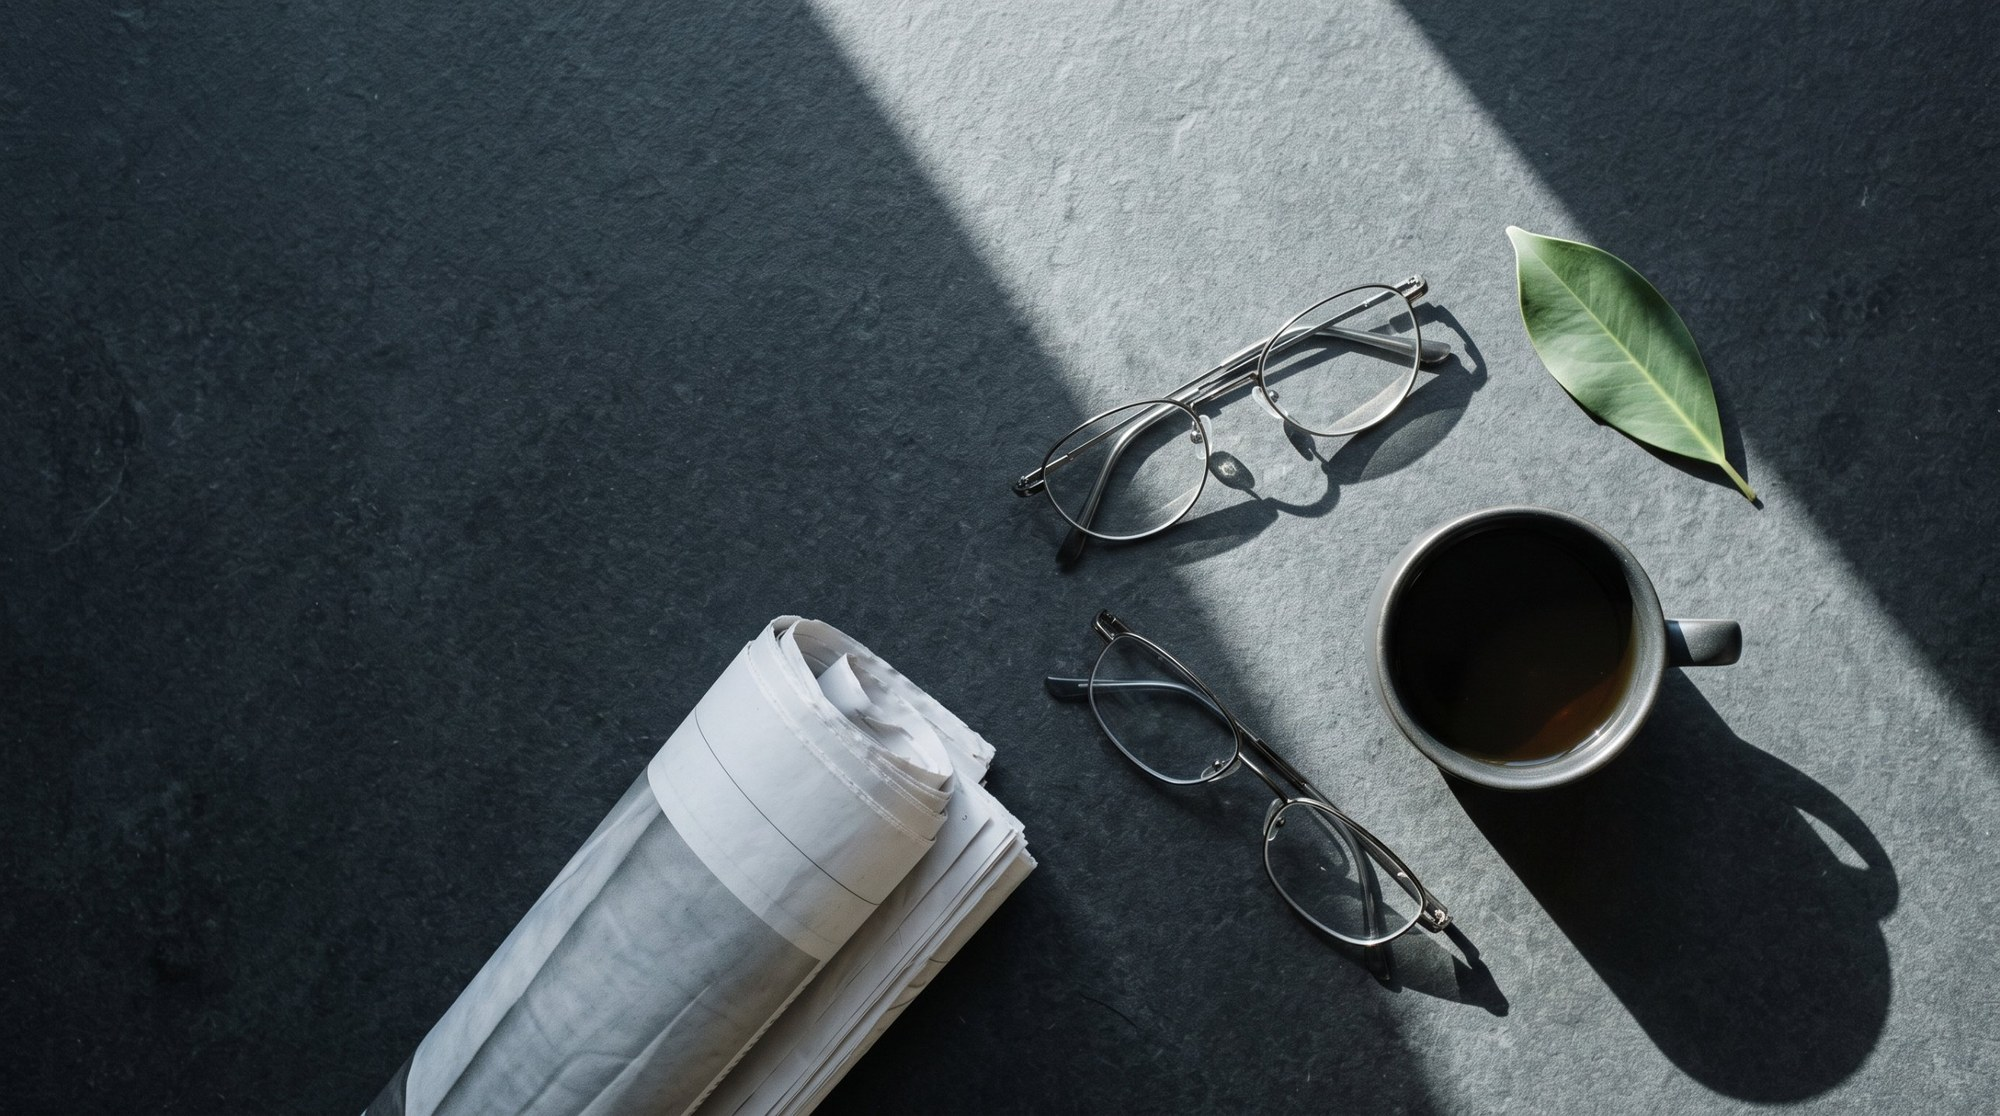
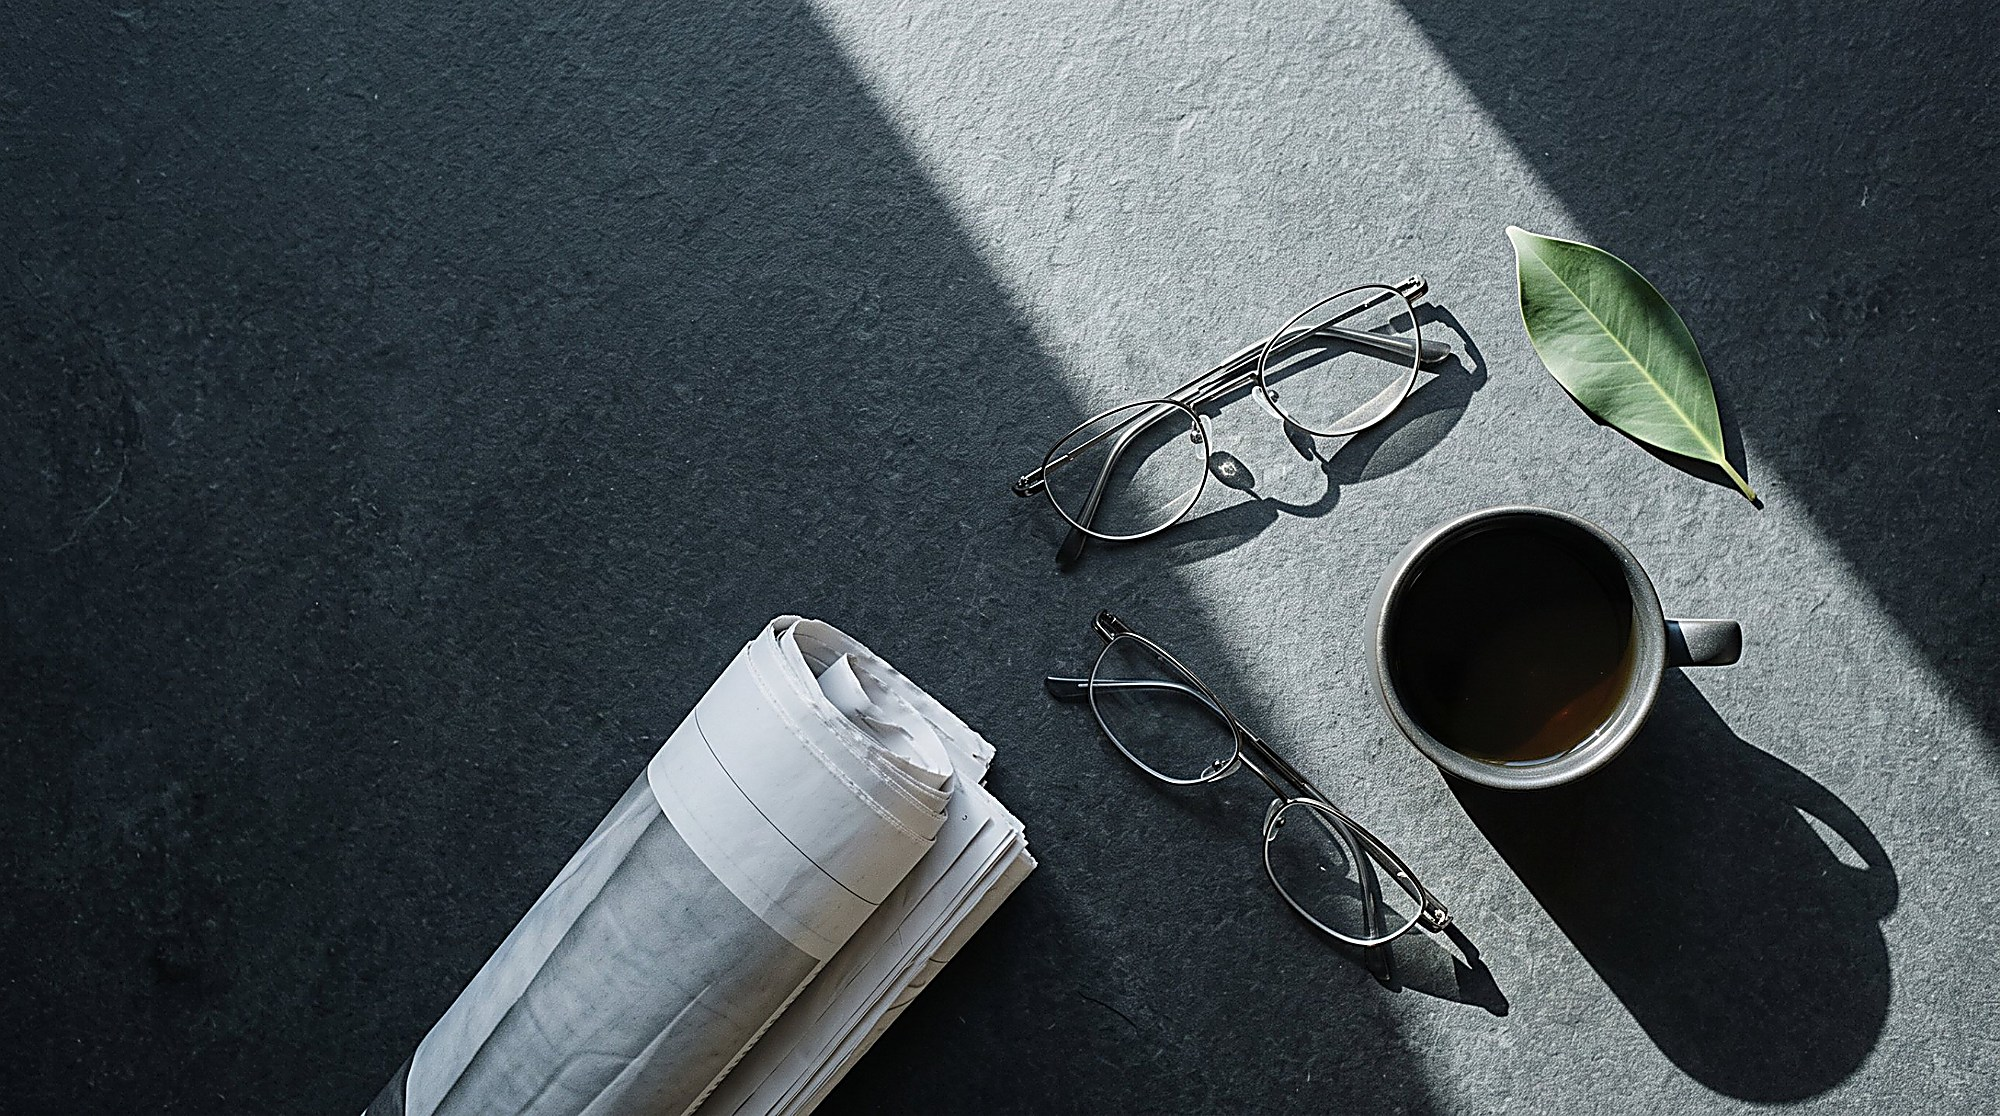
경제·이슈 바탕: 선명도 보정 걸고 막을 얇게 (운영자: 운세·한 끼보다 흐리다)
두 가지가 원인이었다.
1) 새로 넣은 두 장에 선명도 보정을 안 걸었다. 운세·PLAY·한 끼는 194장 보정에 들어가 있던 것들이다.
   같은 값으로 걸었다 — UnsharpMask radius 1.1 x 사진폭/1170 (= 1.88), percent 170, threshold 3, JPEG 89.
2) 막이 제일 옅은 데가 58% 여서 사진 전체가 뿌옇게 깔렸다. 운세·한 끼는 위쪽이 거의 투명하다
   (글이 아래 두 줄뿐이라 가능). 여기도 위를 30~34% 까지 걷어 사진 결이 살게 했다.

경제 사진이 f/2 라 황동 저울 말고는 원래 흐린 것은 보정으로 못 고친다.
sw.js VER v14, ?v= 올림. FAST 시험 통과.

Claude-Session: https://claude.ai/code/session_01BaSwwFaacEUtQjFXGJUdho

diff --git a/index.html b/index.html
@@ -26,7 +26,7 @@ try{var _b=localStorage.getItem('omaju.big');document.documentElement.classList.
 <link rel="preconnect" href="https://fonts.googleapis.com">
 <link rel="preconnect" href="https://fonts.gstatic.com" crossorigin>
 <link rel="stylesheet" href="https://fonts.googleapis.com/css2?family=Nanum+Myeongjo:wght@400;700;800&family=Noto+Sans+KR:wght@300;400;500;700&family=Cormorant+Garamond:ital,wght@0,500;0,600;1,500&family=Allura&family=Gaegu:wght@700&display=swap">
-<link rel="stylesheet" href="css/omaju.css?v=10202320" onerror="(function(l){if(l.dataset.r)return;l.dataset.r=1;var n=document.createElement('link');n.rel='stylesheet';n.href='css/omaju.css?r='+Date.now();l.after(n);})(this)">
+<link rel="stylesheet" href="css/omaju.css?v=10202330" onerror="(function(l){if(l.dataset.r)return;l.dataset.r=1;var n=document.createElement('link');n.rel='stylesheet';n.href='css/omaju.css?r='+Date.now();l.after(n);})(this)">
 </head>
 <body>
 
@@ -287,6 +287,6 @@ try{var _b=localStorage.getItem('omaju.big');document.documentElement.classList.
   <span class="rd-bar-btns"><button type="button" class="rd-bar-b" id="rd-bar-pp" aria-pressed="true">잠시 멈춤</button><button type="button" class="rd-bar-b" id="rd-bar-skip">다음 코너</button></span>
 </div>
 <div class="toast" id="toast" hidden></div>
-<script type="module" src="js/app.js?v=10202320"></script>
+<script type="module" src="js/app.js?v=10202330"></script>
 </body>
 </html>

diff --git a/css/omaju.css b/css/omaju.css
@@ -1745,9 +1745,9 @@ body.rd-on { padding-bottom: 124px; }
    사진은 운영자가 주문해 받은 탁자 정물 두 장 — 경제는 따뜻한 오크를 옆에서, 이슈는 찬 돌판을 위에서. */
 .mk-card, .is-card { position: relative; overflow: hidden; color: #fff;
   border: 0; box-shadow: 0 8px 24px rgba(10,45,32,0.24); }
-.mk-card { background: linear-gradient(to top, rgba(30,20,11,0.88) 0%, rgba(30,20,11,0.76) 50%, rgba(30,20,11,0.58) 100%),
+.mk-card { background: linear-gradient(to top, rgba(30,20,11,0.86) 0%, rgba(30,20,11,0.62) 55%, rgba(30,20,11,0.30) 100%),
              url('../img/bg-econ.jpg') center 42% / cover no-repeat; padding: 10px 20px 14px; }
-.is-card { background: linear-gradient(to top, rgba(10,45,32,0.90) 0%, rgba(10,45,32,0.80) 50%, rgba(10,45,32,0.64) 100%),
+.is-card { background: linear-gradient(to top, rgba(10,45,32,0.88) 0%, rgba(10,45,32,0.66) 55%, rgba(10,45,32,0.34) 100%),
              url('../img/bg-issue.jpg') center 35% / cover no-repeat; padding: 8px 20px 14px; }
 .mk-card::before { display: none; }
 .mk-item, .mk-item:last-child, .mk-item:nth-last-child(-n+2), .is-item { border-bottom-color: rgba(255,255,255,0.16); }

diff --git a/sw.js b/sw.js
@@ -1,5 +1,5 @@
 // 오마주 서비스 워커: 앱 설치용. 화면과 코드는 늘 새로 받되, 못 받으면 지난번 것으로 화면을 세운다.
-const VER = 'omaju-v13';   // 진행자 사진을 바꾸면 이 숫자를 올려야 휴대폰이 새 사진을 받는다 (사진은 한 번 받으면 계속 쓰므로)
+const VER = 'omaju-v14';   // 진행자 사진을 바꾸면 이 숫자를 올려야 휴대폰이 새 사진을 받는다 (사진은 한 번 받으면 계속 쓰므로)
 self.addEventListener('install', e => { self.skipWaiting(); });
 self.addEventListener('activate', e => { e.waitUntil(caches.keys().then(ks => Promise.all(ks.filter(k => k !== VER).map(k => caches.delete(k)))).then(() => self.clients.claim())); });
 
